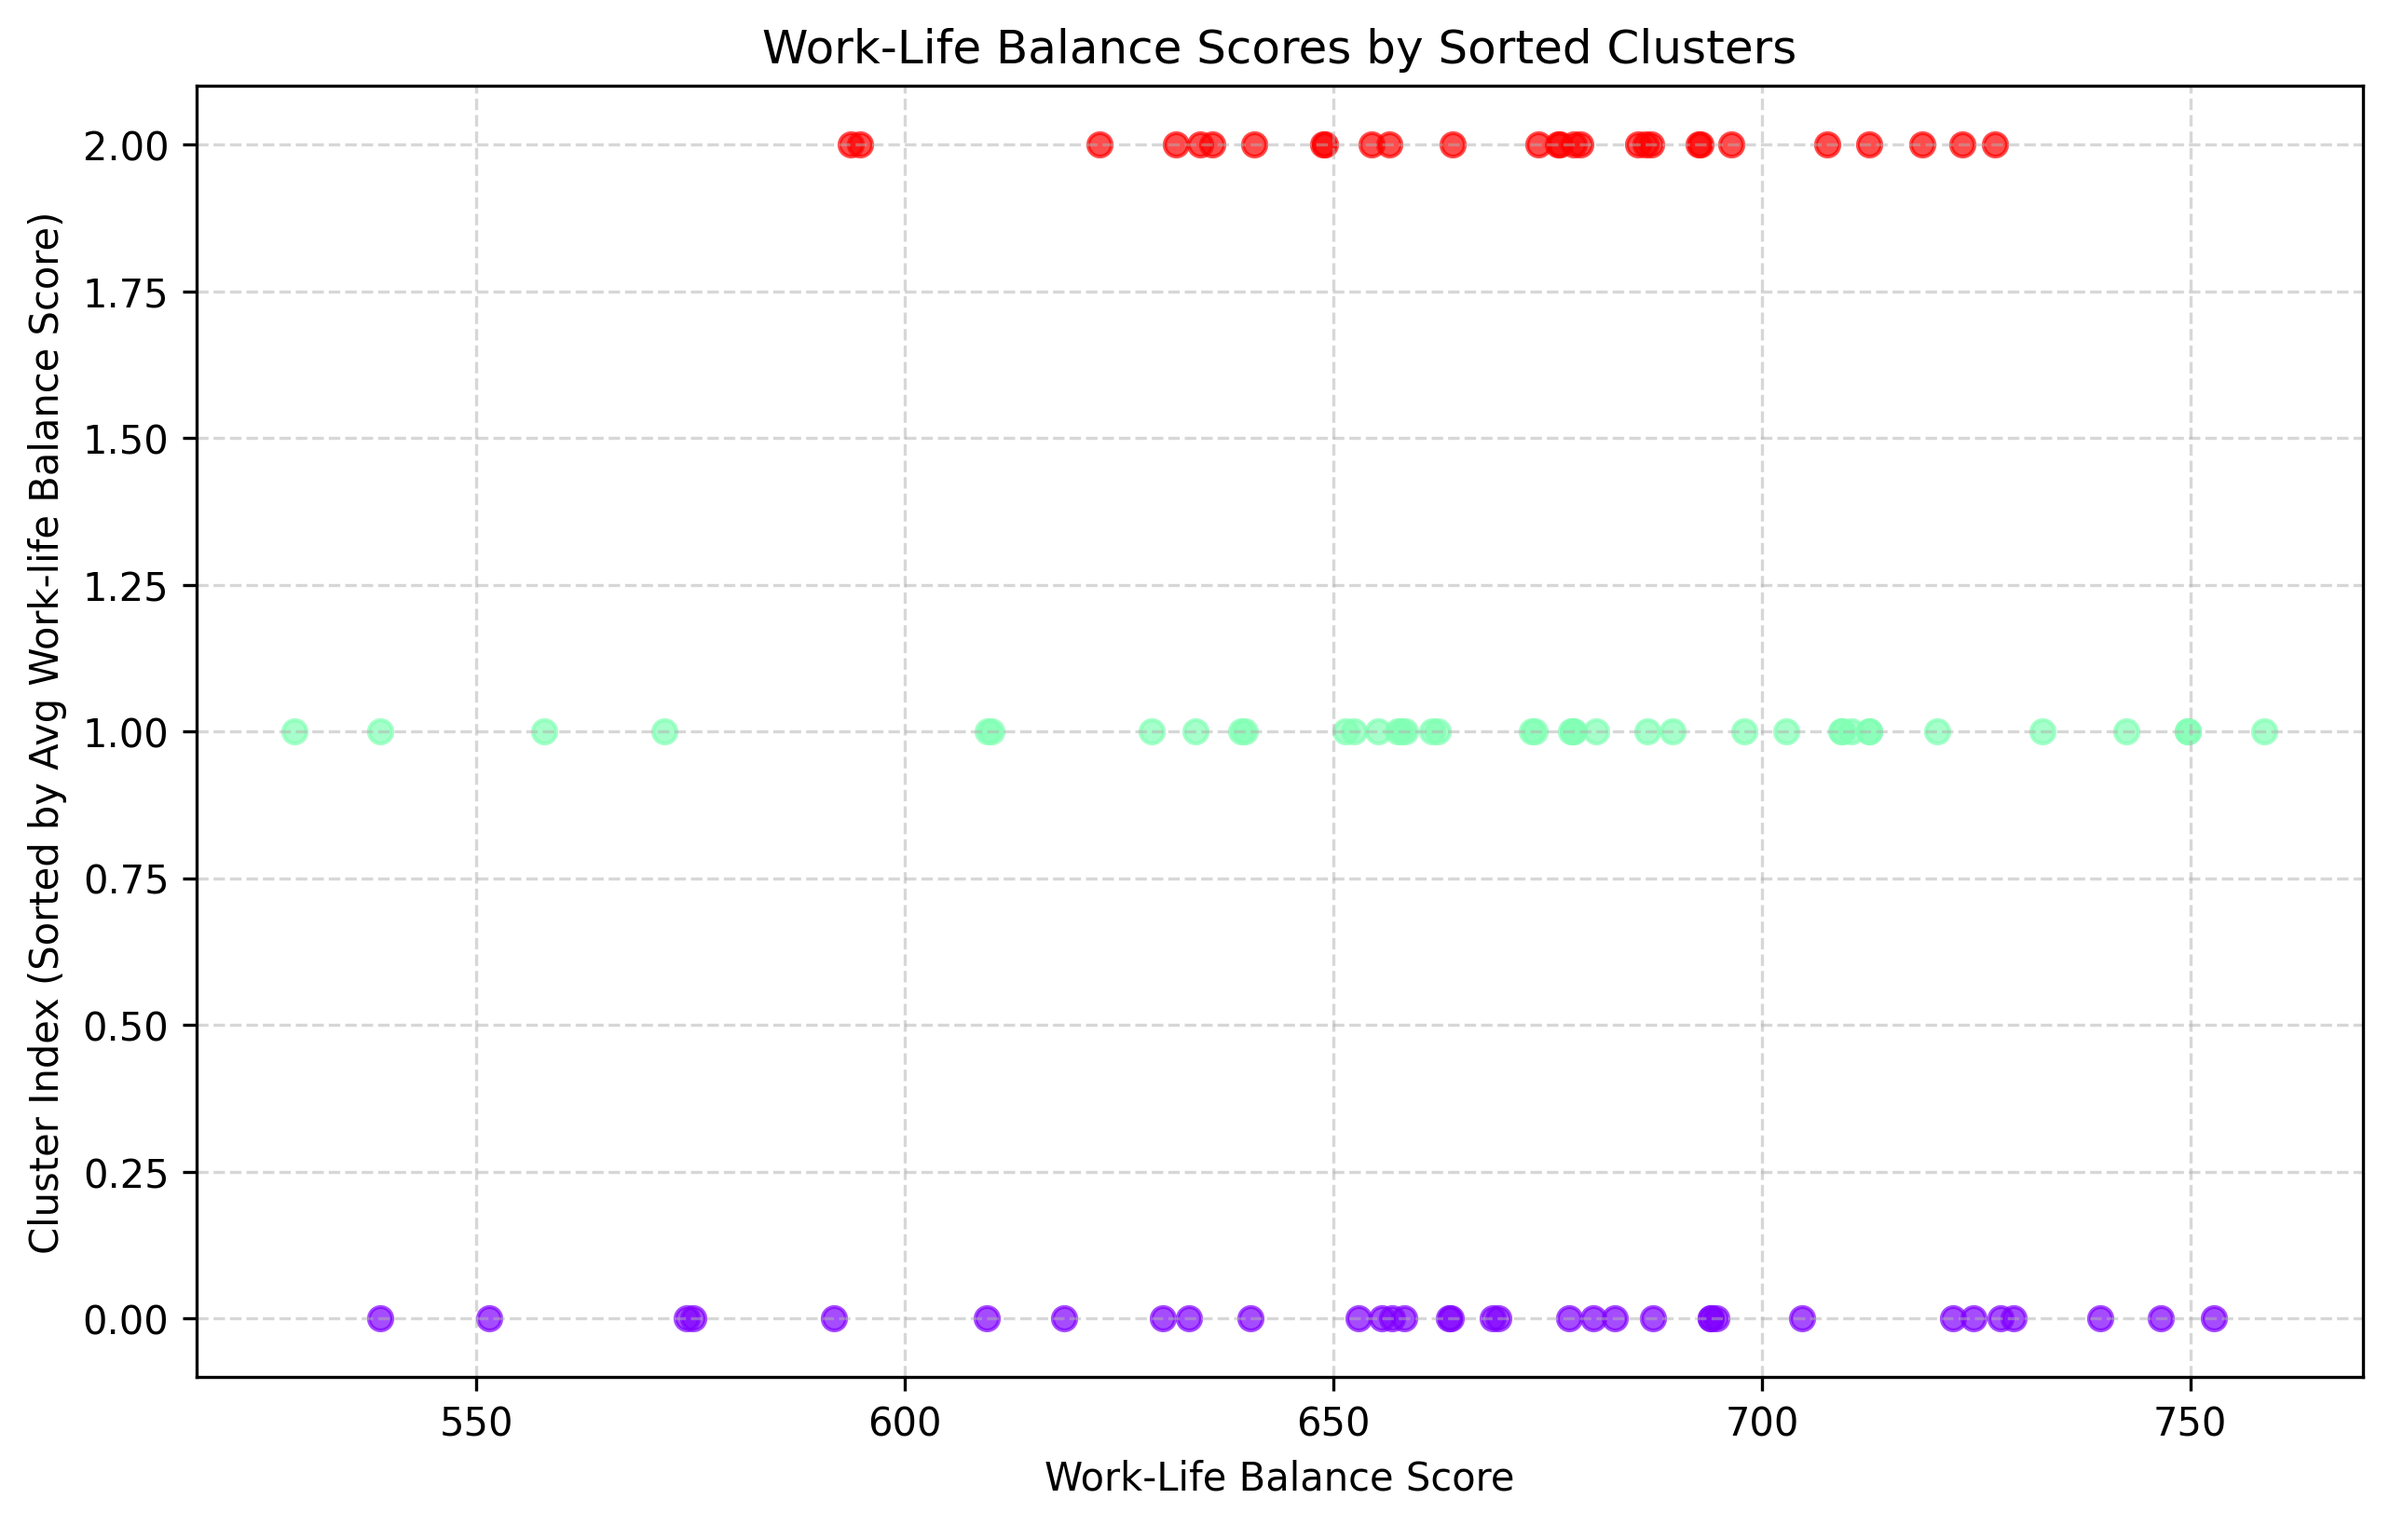
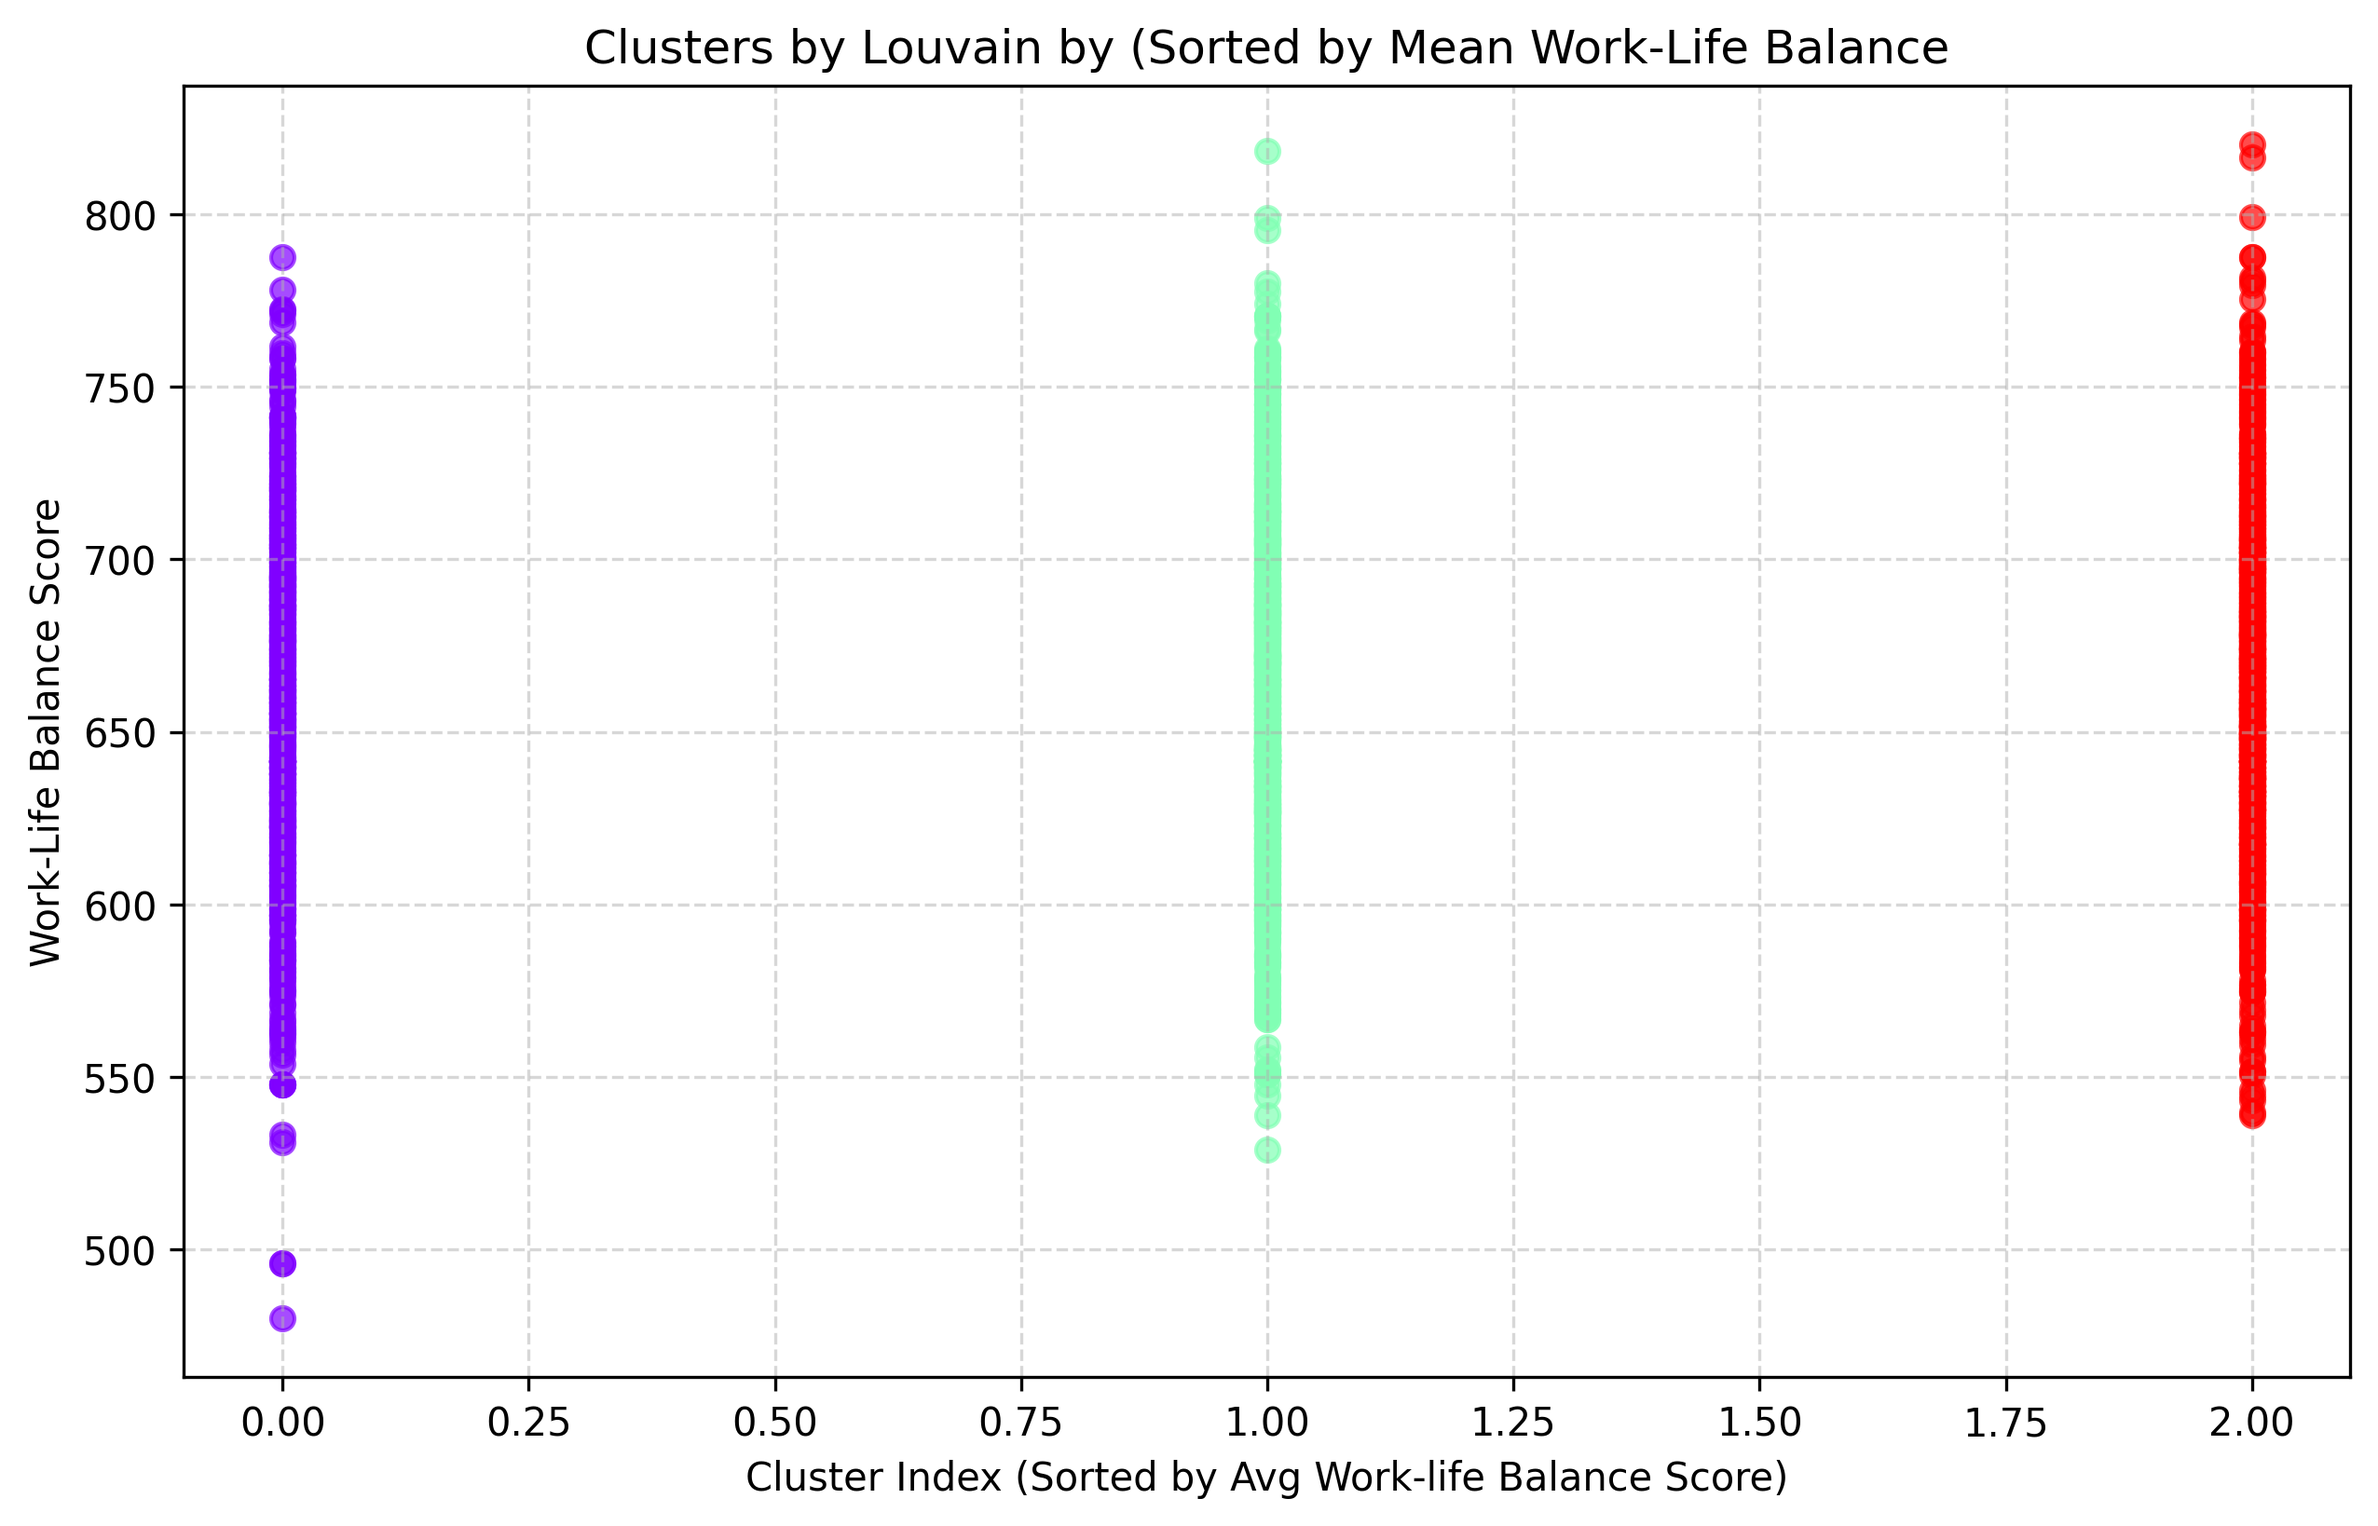
louvain w 5 clusters

diff --git a/main.py b/main.py
@@ -54,53 +54,55 @@ for i in range(len(y_test)):
 
 
 # Calculate Louvain clusters and their averages
-louvain_clusters = utils.get_clusters(scaled_similarity_graph, method="louvain", threshold=0.5, resolution=1.0)
+# louvain_clusters = utils.get_clusters(scaled_similarity_graph, method="louvain", threshold=0.5, resolution=1.0)
 # 10 clusters
 # louvain_clusters = utils.get_clusters(scaled_similarity_graph, method="louvain", threshold=0.5, resolution=1.0409705)
-louvain_cluster_averages = utils.calculate_cluster_averages(louvain_clusters, target)
+# 5 clusters
+louvain_clusters = utils.get_clusters(scaled_similarity_graph, method="louvain", threshold=0.5, resolution=1.025)
+# louvain_cluster_averages = utils.calculate_cluster_averages(louvain_clusters, target)
 
-print("Louvain clustering results:")
-for cluster, avg in louvain_cluster_averages.items():
-    print(f"Cluster {cluster} average work-life balance score: {avg}")
+# print("Louvain clustering results:")
+# for cluster, avg in louvain_cluster_averages.items():
+#     print(f"Cluster {cluster} average work-life balance score: {avg}")
 
 # Plot Louvain clusters
-utils.plot_clusters_vs_scores(louvain_clusters, target, filename="louvain_clusters_vs_scores_10cls.png")
+utils.plot_clusters_vs_scores(louvain_clusters, target, filename="louvain_clusters_vs_scores_5cls.png")
 # utils.plot_clusters_with_scores(scaled_similarity_graph, louvain_clusters, target, filename="louvain_network_graph.png")
 
-# Calculate Spectral clusters and their averages
-spectral_clusters = utils.get_clusters(scaled_similarity_graph, method="spectral", n_clusters=5)
-spectral_cluster_averages = utils.calculate_cluster_averages(spectral_clusters, target)
+# # Calculate Spectral clusters and their averages
+# spectral_clusters = utils.get_clusters(scaled_similarity_graph, method="spectral", n_clusters=5)
+# spectral_cluster_averages = utils.calculate_cluster_averages(spectral_clusters, target)
 
-print("\nSpectral clustering results:")
-for cluster, avg in spectral_cluster_averages.items():
-    print(f"Cluster {cluster} average work-life balance score: {avg}")
+# print("\nSpectral clustering results:")
+# for cluster, avg in spectral_cluster_averages.items():
+#     print(f"Cluster {cluster} average work-life balance score: {avg}")
 
-# Plot Spectral clusters
-utils.plot_clusters_vs_scores(spectral_clusters, target, filename="spectral_clusters_vs_scores.png")
-utils.plot_clusters_with_scores(scaled_similarity_graph, spectral_clusters, target, filename="spectral_network_graph.png")
+# # Plot Spectral clusters
+# utils.plot_clusters_vs_scores(spectral_clusters, target, filename="spectral_clusters_vs_scores.png")
+# utils.plot_clusters_with_scores(scaled_similarity_graph, spectral_clusters, target, filename="spectral_network_graph.png")
 
-# Print each cluster with its nodes for both methods
-print("\nLouvain Clustering Nodes:")
-for cluster, nodes in louvain_clusters.items():
-    print(f"Cluster {cluster} has nodes: {nodes}")
+# # Print each cluster with its nodes for both methods
+# print("\nLouvain Clustering Nodes:")
+# for cluster, nodes in louvain_clusters.items():
+#     print(f"Cluster {cluster} has nodes: {nodes}")
 
-print("\nSpectral Clustering Nodes:")
-for cluster, nodes in spectral_clusters.items():
-    print(f"Cluster {cluster} has nodes: {nodes}")
+# print("\nSpectral Clustering Nodes:")
+# for cluster, nodes in spectral_clusters.items():
+#     print(f"Cluster {cluster} has nodes: {nodes}")
 
-# Girvan-Newman Clustering
-girvan_newman_clusters = utils.get_clusters(scaled_similarity_graph, method="girvan_newman", n_clusters=5)
-girvan_newman_cluster_averages = utils.calculate_cluster_averages(girvan_newman_clusters, target)
+# # Girvan-Newman Clustering
+# girvan_newman_clusters = utils.get_clusters(scaled_similarity_graph, method="girvan_newman", n_clusters=5)
+# girvan_newman_cluster_averages = utils.calculate_cluster_averages(girvan_newman_clusters, target)
 
-print("\nGirvan-Newman clustering results:")
-for cluster, avg in girvan_newman_cluster_averages.items():
-    print(f"Cluster {cluster} average work-life balance score: {avg}")
+# print("\nGirvan-Newman clustering results:")
+# for cluster, avg in girvan_newman_cluster_averages.items():
+#     print(f"Cluster {cluster} average work-life balance score: {avg}")
 
-# Plot Girvan-Newman clusters
-utils.plot_clusters_vs_scores(girvan_newman_clusters, target, filename="girvan_newman_clusters_vs_scores.png")
-# utils.plot_clusters_with_scores(scaled_similarity_graph, girvan_newman_clusters, target, filename="girvan_newman_network_graph.png")
+# # Plot Girvan-Newman clusters
+# utils.plot_clusters_vs_scores(girvan_newman_clusters, target, filename="girvan_newman_clusters_vs_scores.png")
+# # utils.plot_clusters_with_scores(scaled_similarity_graph, girvan_newman_clusters, target, filename="girvan_newman_network_graph.png")
 
-# Print each cluster with its nodes for Girvan-Newman
-print("\nGirvan-Newman Clustering Nodes:")
-for cluster, nodes in girvan_newman_clusters.items():
-    print(f"Cluster {cluster} has nodes: {nodes}")
+# # Print each cluster with its nodes for Girvan-Newman
+# print("\nGirvan-Newman Clustering Nodes:")
+# for cluster, nodes in girvan_newman_clusters.items():
+#     print(f"Cluster {cluster} has nodes: {nodes}")

diff --git a/utils.py b/utils.py
@@ -292,13 +292,17 @@ def plot_clusters_vs_scores(clusters, scores, filename="clusters_vs_scores.png")
     for cluster, nodes in clusters.items():
         cluster_scores = scores.iloc[nodes]
         sorted_y = sorted_cluster_indices[cluster]
-        plt.scatter(cluster_scores, [sorted_y] * len(cluster_scores), 
+        # plt.scatter(cluster_scores, [sorted_y] * len(cluster_scores), 
+        #             color=cluster_color_map[cluster], label=f"Cluster {cluster}", alpha=0.7)
+        plt.scatter([sorted_y] * len(cluster_scores), cluster_scores,
                     color=cluster_color_map[cluster], label=f"Cluster {cluster}", alpha=0.7)
 
     # Add labels and legend
-    plt.xlabel("Work-Life Balance Score")
-    plt.ylabel("Cluster Index (Sorted by Avg Work-life Balance Score)")
-    plt.title("Work-Life Balance Scores by Sorted Clusters")
+    # plt.xlabel("Work-Life Balance Score")
+    # plt.ylabel("Cluster Index (Sorted by Avg Work-life Balance Score)")
+    plt.ylabel("Work-Life Balance Score")
+    plt.xlabel("Cluster Index (Sorted by Avg Work-life Balance Score)")
+    plt.title("Clusters by Louvain by (Sorted by Mean Work-Life Balance")
     # plt.legend(loc="best", fontsize=8)
     plt.grid(True, linestyle='--', alpha=0.5)
 
